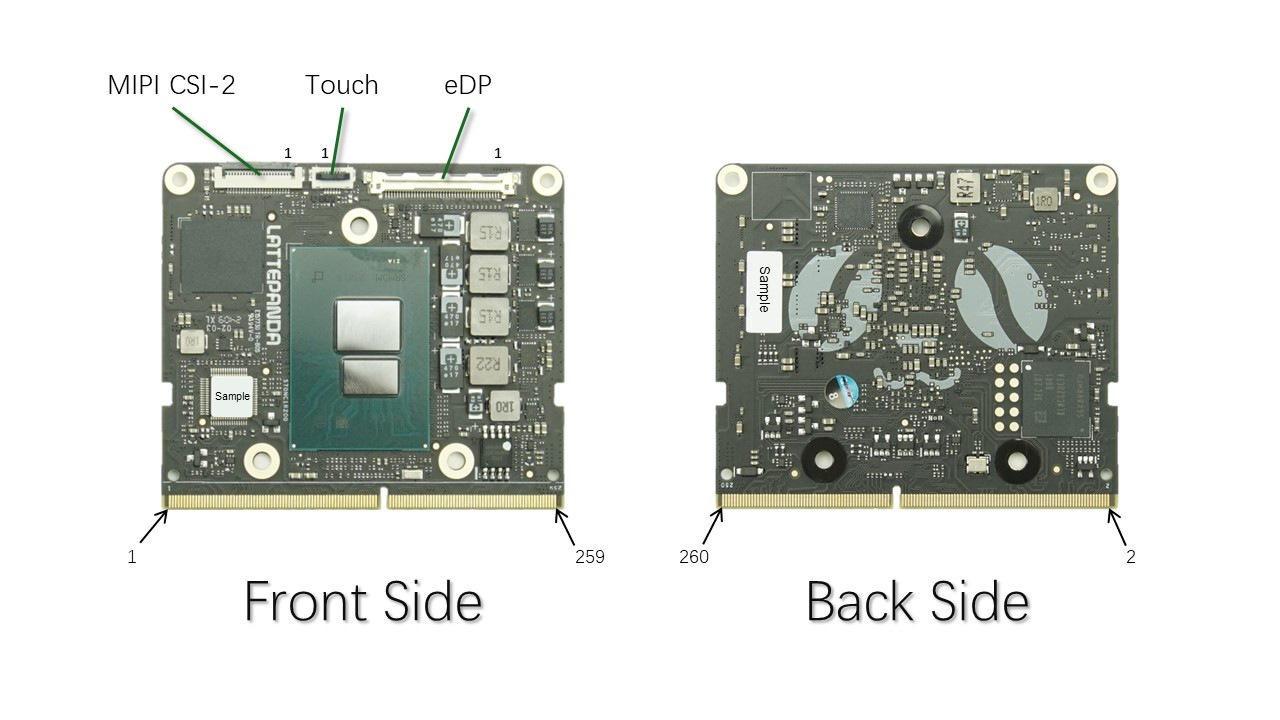
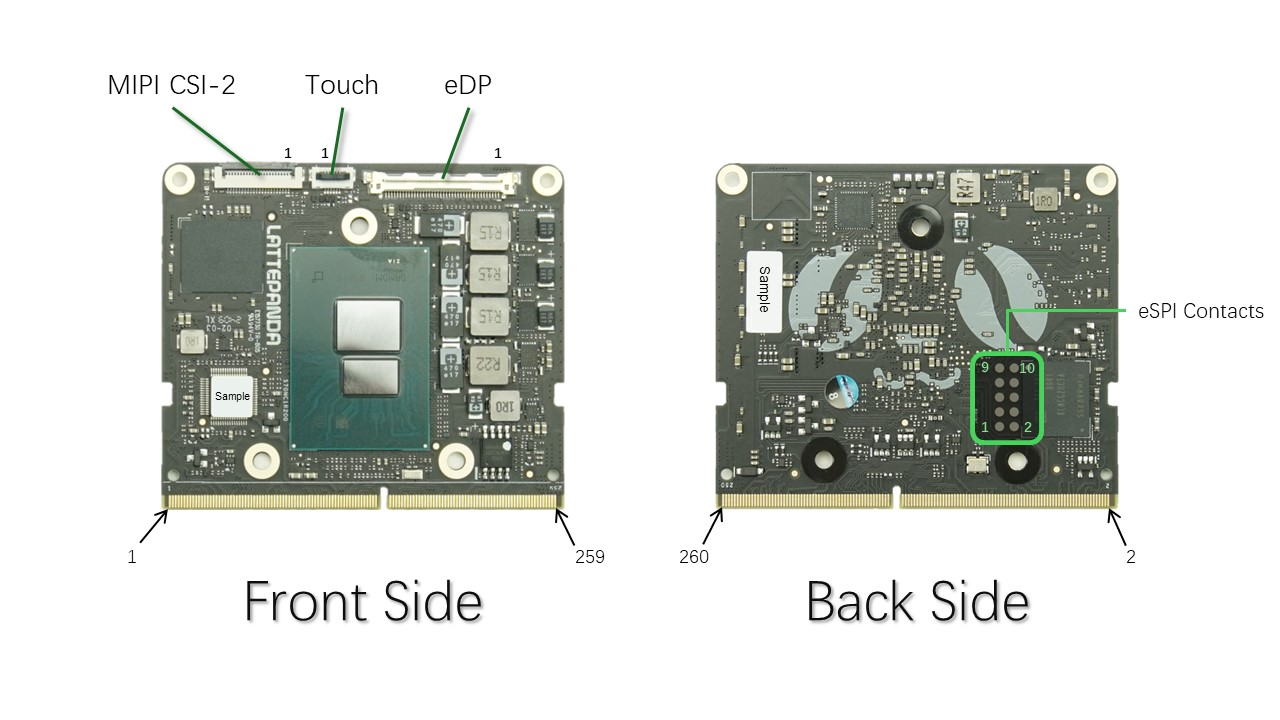
update espi contacts

Changed region(s): [[0.75, 0.4278, 1.0, 0.6417]]

diff --git a/Electricals/Pinouts/README.md b/Electricals/Pinouts/README.md
@@ -103,6 +103,20 @@ Clamshell 22P 0.5mm FFC/FPC Connector
 - **CAM_RST**: SoC GPP_A21
 - **CAM_MCLK**: SoC GPP_D4
 
+## eSPI Contacts
+
+2.54mm Pitch Contacts
+
+| Name     | PIN | PIN | Name        |
+|----------|:---:|:---:|-------------|
+| ESPI_IO0 | 9   | 10  | GND         |
+| ESPI_IO1 | 7   | 8   | NC          |
+| ESPI_IO2 | 5   | 6   | ESPI_RESET# |
+| ESPI_IO3 | 3   | 4   | ESPI_CS0#   |
+| ESPI_CLK | 1   | 2   | +1.8V       |
+
+Contacts on eSPI bus for SoC to communicate with SuperIO, can be used to connect diagnostic card (untested).
+
 ## SODIMM
 
 DDR4 SODIMM pin table is too long, so I put it in a separate csv file.
